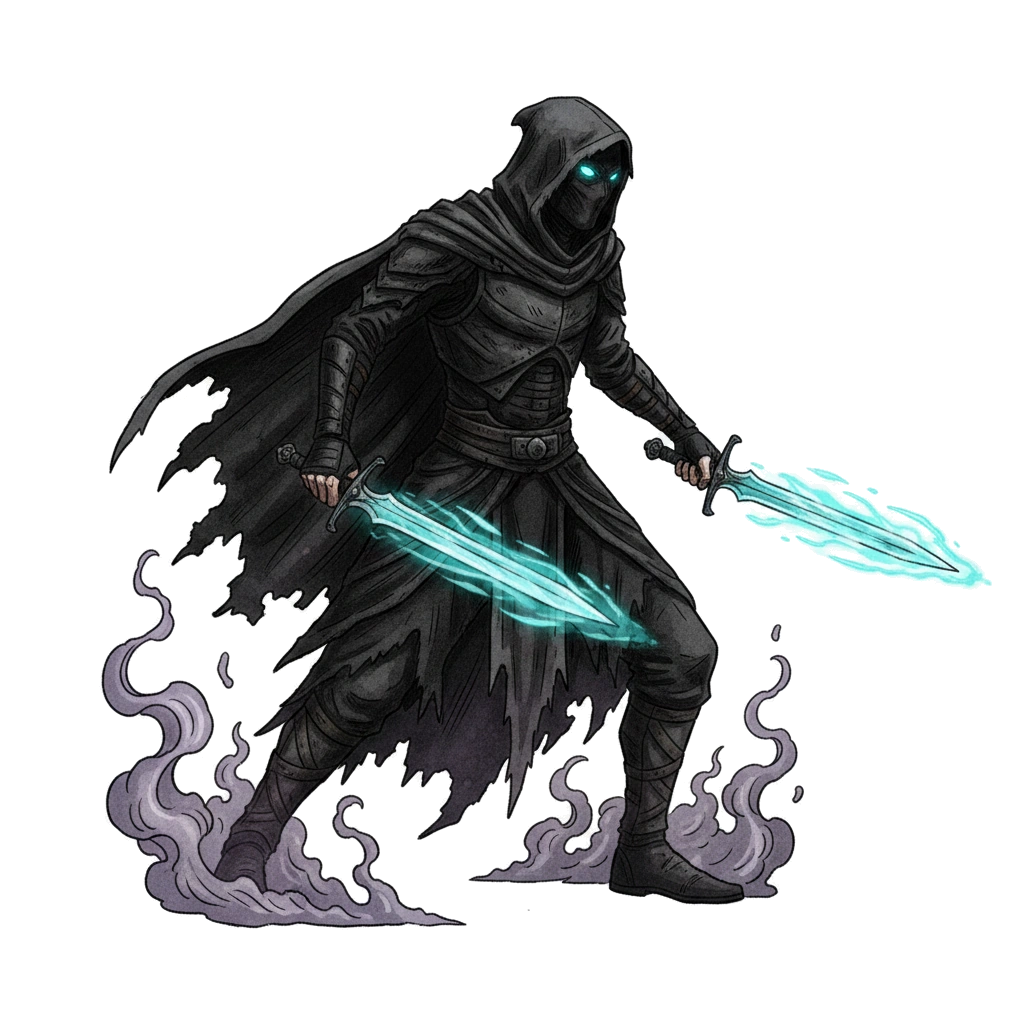
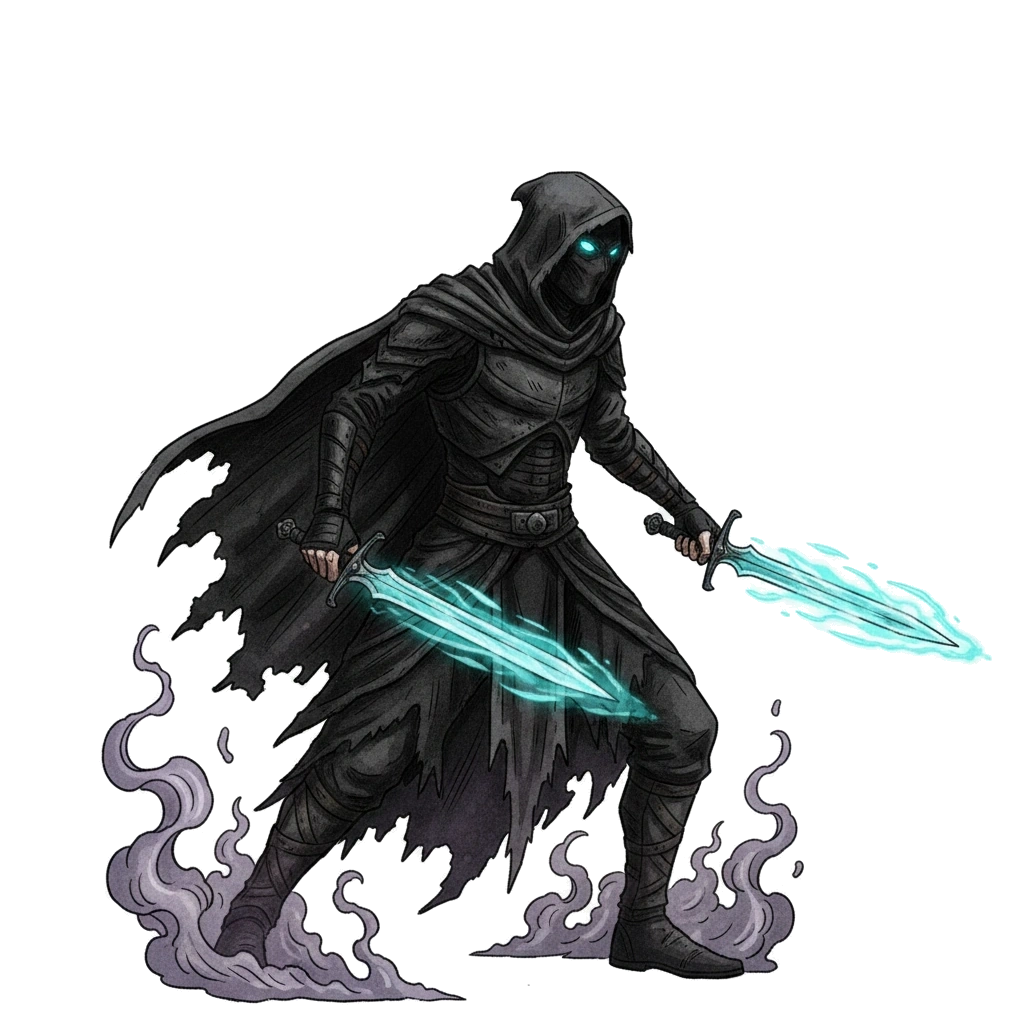
Bestiary assets

diff --git a/apps/web/src/__tests__/entity_synapse_render.test.tsx b/apps/web/src/__tests__/entity_synapse_render.test.tsx
@@ -1,5 +1,6 @@
 import { describe, expect, it } from 'vitest';
 import { renderToStaticMarkup } from 'react-dom/server';
+import { Entity } from '../components/Entity';
 import { EntityRenderShell } from '../components/entity/entity-render-shell';
 
 describe('entity synapse render shell', () => {
@@ -46,5 +47,112 @@ describe('entity synapse render shell', () => {
     expect(html).toContain('entity-synapse-inspectable');
     expect(html).toContain('entity-synapse-pulse');
     expect(html).toContain('data-synapse-pulse="active"');
+  });
+
+  it('scales unit portraits 50 percent larger by default', () => {
+    const html = renderToStaticMarkup(
+      <svg>
+        <Entity
+          entity={{
+            id: 'enemy-2',
+            type: 'enemy',
+            subtype: 'footman',
+            position: { q: 0, r: 0, s: 0 },
+            hp: 4,
+            maxHp: 4,
+            speed: 1,
+            factionId: 'enemy',
+            statusEffects: [],
+            temporaryArmor: 0,
+            activeSkills: []
+          } as any}
+        />
+      </svg>
+    );
+
+    expect(html).toMatch(/translate\(0,-2\) scale\(1\.5\)/);
+  });
+
+  it('applies extra scale compensation for bestiary portraits', () => {
+    const html = renderToStaticMarkup(
+      <svg>
+        <EntityRenderShell
+          entity={{
+            id: 'enemy-3',
+            type: 'enemy',
+            subtype: 'footman',
+            position: { q: 0, r: 0, s: 0 },
+            hp: 4,
+            maxHp: 4,
+            speed: 1,
+            factionId: 'enemy',
+            statusEffects: [],
+            temporaryArmor: 0,
+            activeSkills: []
+          } as any}
+          x={0}
+          y={0}
+          isFlashing={false}
+          isInvisible={false}
+          visualOpacity={1}
+          isPlayer={false}
+          isFlying={false}
+          unitIconYOffset={0}
+          unitIconScale={1}
+          unitIconSize={10}
+          resolvedAssetHref="/assets/Bestiary/unit.goblin.footman.01.webp"
+          handleAssetError={() => { }}
+          contrastBoost={1}
+          stunned={false}
+          blinded={false}
+          showFacing={false}
+          borderColor="#fff"
+        />
+      </svg>
+    );
+
+    expect(html).toContain('width="28"');
+    expect(html).toContain('height="28"');
+    expect(html).toContain('y="-21"');
+  });
+
+  it('lifts player raster portraits upward with the same framing rule', () => {
+    const html = renderToStaticMarkup(
+      <svg>
+        <EntityRenderShell
+          entity={{
+            id: 'player-1',
+            type: 'player',
+            position: { q: 0, r: 0, s: 0 },
+            hp: 10,
+            maxHp: 10,
+            speed: 1,
+            factionId: 'player',
+            statusEffects: [],
+            temporaryArmor: 0,
+            activeSkills: []
+          } as any}
+          x={0}
+          y={0}
+          isFlashing={false}
+          isInvisible={false}
+          visualOpacity={1}
+          isPlayer={true}
+          isFlying={false}
+          unitIconYOffset={0}
+          unitIconScale={1}
+          unitIconSize={10}
+          resolvedAssetHref="/assets/units/unit.player.vanguard.01.webp"
+          handleAssetError={() => { }}
+          contrastBoost={1}
+          stunned={false}
+          blinded={false}
+          showFacing={false}
+          borderColor="#fff"
+        />
+      </svg>
+    );
+
+    expect(html).toContain('y="-14"');
   });
 });

diff --git a/apps/web/src/__tests__/asset_selectors.test.ts b/apps/web/src/__tests__/asset_selectors.test.ts
@@ -1,0 +1,41 @@
+import { describe, expect, it } from 'vitest';
+import type { Actor } from '@hop/engine';
+import { resolveUnitAssetId, resolveUnitFallbackAssetHref } from '../visual/asset-selectors';
+
+const createEnemy = (
+  subtype: string,
+  enemyType: 'melee' | 'ranged' | 'boss' = 'melee'
+): Actor => ({
+  id: `enemy-${subtype}`,
+  type: 'enemy',
+  subtype,
+  enemyType,
+  position: { q: 0, r: 0, s: 0 },
+  hp: 1,
+  maxHp: 1,
+  speed: 1,
+  factionId: 'enemy',
+  statusEffects: [],
+  temporaryArmor: 0,
+  activeSkills: [],
+} as Actor);
+
+describe('asset selectors', () => {
+  it('resolves dedicated unit art ids for the current enemy roster', () => {
+    expect(resolveUnitAssetId(createEnemy('footman'))).toBe('unit.enemy.footman.01');
+    expect(resolveUnitAssetId(createEnemy('sprinter'))).toBe('unit.enemy.sprinter.01');
+    expect(resolveUnitAssetId(createEnemy('raider'))).toBe('unit.enemy.raider.01');
+    expect(resolveUnitAssetId(createEnemy('pouncer'))).toBe('unit.enemy.pouncer.01');
+    expect(resolveUnitAssetId(createEnemy('shieldBearer'))).toBe('unit.enemy.shield_bearer.01');
+    expect(resolveUnitAssetId(createEnemy('shield_bearer'))).toBe('unit.enemy.shield_bearer.01');
+    expect(resolveUnitAssetId(createEnemy('archer', 'ranged'))).toBe('unit.enemy.archer.01');
+    expect(resolveUnitAssetId(createEnemy('bomber', 'ranged'))).toBe('unit.enemy.bomber.01');
+    expect(resolveUnitAssetId(createEnemy('warlock', 'ranged'))).toBe('unit.enemy.warlock.01');
+    expect(resolveUnitAssetId(createEnemy('sentinel', 'boss'))).toBe('unit.enemy.sentinel.01');
+  });
+
+  it('keeps svg fallbacks for new bestiary-backed enemy ids', () => {
+    expect(resolveUnitFallbackAssetHref(createEnemy('sprinter'))).toBe('/assets/units/unit.enemy.footman.01.svg');
+    expect(resolveUnitFallbackAssetHref(createEnemy('sentinel', 'boss'))).toBe('/assets/units/unit.enemy.boss.01.svg');
+  });
+});

diff --git a/apps/web/src/visual/asset-selectors.ts b/apps/web/src/visual/asset-selectors.ts
@@ -50,6 +50,13 @@ export const resolveUnitAssetId = (actor: Actor): string => {
   switch (actor.subtype) {
     case 'footman':
       return 'unit.enemy.footman.01';
+    case 'sprinter':
+      return 'unit.enemy.sprinter.01';
+    case 'raider':
+      return 'unit.enemy.raider.01';
+    case 'pouncer':
+      return 'unit.enemy.pouncer.01';
+    case 'shieldBearer':
     case 'shield_bearer':
       return 'unit.enemy.shield_bearer.01';
     case 'archer':
@@ -58,6 +65,8 @@ export const resolveUnitAssetId = (actor: Actor): string => {
       return 'unit.enemy.warlock.01';
     case 'bomber':
       return 'unit.enemy.bomber.01';
+    case 'sentinel':
+      return 'unit.enemy.sentinel.01';
     case 'bomb':
       return 'unit.enemy.bomb.01';
     default:
@@ -89,10 +98,14 @@ const UNIT_FALLBACK_SVG_BY_ID: Record<string, string> = {
   'unit.player.necromancer.01': '/assets/units/unit.player.vanguard.01.svg',
   'unit.player.assassin.01': '/assets/units/unit.player.skirmisher.01.svg',
   'unit.enemy.footman.01': '/assets/units/unit.enemy.footman.01.svg',
+  'unit.enemy.sprinter.01': '/assets/units/unit.enemy.footman.01.svg',
+  'unit.enemy.raider.01': '/assets/units/unit.enemy.footman.01.svg',
+  'unit.enemy.pouncer.01': '/assets/units/unit.enemy.footman.01.svg',
   'unit.enemy.shield_bearer.01': '/assets/units/unit.enemy.shield_bearer.01.svg',
   'unit.enemy.archer.01': '/assets/units/unit.enemy.archer.01.svg',
   'unit.enemy.warlock.01': '/assets/units/unit.enemy.warlock.01.svg',
   'unit.enemy.bomber.01': '/assets/units/unit.enemy.bomber.01.svg',
+  'unit.enemy.sentinel.01': '/assets/units/unit.enemy.boss.01.svg',
   'unit.enemy.bomb.01': '/assets/units/unit.enemy.bomb.01.svg',
   'unit.enemy.boss.01': '/assets/units/unit.enemy.boss.01.svg'
 };

diff --git a/apps/web/src/components/entity/entity-icon.tsx b/apps/web/src/components/entity/entity-icon.tsx
@@ -8,6 +8,9 @@ const FLOOR_THEME_LUMA: Record<string, number> = {
   frozen: 0.45,
   void: 0.08
 };
+const BESTIARY_UNIT_SCALE_MULTIPLIER = 1.4;
+const PLAYER_RASTER_UNIT_VERTICAL_OFFSET_RATIO = 0.4;
+const ENEMY_RASTER_UNIT_VERTICAL_OFFSET_RATIO = 0.5;
 
 const contrastRatio = (a: number, b: number): number => {
   const light = Math.max(a, b);
@@ -33,7 +36,12 @@ export const renderEntityIcon = (
 ) => {
   const visual = getEntityVisual(entity.subtype, entity.type, entity.enemyType as 'melee' | 'ranged' | 'boss', entity.archetype);
   const { icon, shape, color, borderColor, size: sizeMult = 1.0 } = visual;
-  const finalSize = size * sizeMult;
+  const usesBestiaryPortrait = assetHref?.includes('/assets/Bestiary/') ?? false;
+  const usesRasterPortrait = /\.(?:webp|avif|png|jpe?g)(?:$|[?#])/i.test(assetHref || '');
+  const finalSize = size * sizeMult * (usesBestiaryPortrait ? BESTIARY_UNIT_SCALE_MULTIPLIER : 1);
+  const rasterVerticalOffset = usesRasterPortrait
+    ? finalSize * (isPlayer ? PLAYER_RASTER_UNIT_VERTICAL_OFFSET_RATIO : ENEMY_RASTER_UNIT_VERTICAL_OFFSET_RATIO)
+    : 0;
   const bombFuse = entity.statusEffects?.find(s => s.type === 'time_bomb');
   const bombTimer = bombFuse ? Math.max(0, bombFuse.duration) : (entity.actionCooldown ?? 0);
   const contrastFilter = `contrast(${contrastBoost.toFixed(2)}) brightness(${(contrastBoost > 1 ? 1.12 : 1.04).toFixed(2)})`;
@@ -48,7 +56,7 @@ export const renderEntityIcon = (
         <image
           href={assetHref}
           x={-finalSize}
-          y={-finalSize}
+          y={-finalSize - rasterVerticalOffset}
           width={finalSize * 2}
           height={finalSize * 2}
           preserveAspectRatio="xMidYMid meet"

diff --git a/apps/web/src/__tests__/asset_manifest.test.ts b/apps/web/src/__tests__/asset_manifest.test.ts
@@ -1,0 +1,44 @@
+import { afterEach, describe, expect, it, vi } from 'vitest';
+import { clearAssetManifestCache, loadAssetManifest } from '../visual/asset-manifest';
+
+afterEach(() => {
+  clearAssetManifestCache();
+  vi.restoreAllMocks();
+});
+
+describe('asset manifest loader', () => {
+  it('accepts uppercase asset path segments without falling back to an empty manifest', async () => {
+    const fetchMock = vi.fn().mockResolvedValue({
+      ok: true,
+      json: () => Promise.resolve({
+        version: '1.0.0',
+        gridTopology: 'flat-top-hex',
+        tileUnitPx: 256,
+        tileAspectRatio: 1.154700538,
+        layers: ['ground', 'decal', 'prop', 'unit', 'fx', 'ui'],
+        assets: [{
+          id: 'unit.enemy.footman.01',
+          type: 'unit',
+          layer: 'unit',
+          recommendedFormat: 'webp',
+          path: '/assets/Bestiary/unit.goblin.footman.01.webp',
+          width: 512,
+          height: 512,
+        }],
+      }),
+    });
+    const warnSpy = vi.spyOn(console, 'warn').mockImplementation(() => {});
+
+    Object.defineProperty(globalThis, 'fetch', {
+      configurable: true,
+      value: fetchMock,
+    });
+
+    const manifest = await loadAssetManifest();
+
+    expect(fetchMock).toHaveBeenCalledWith('/assets/manifest.json');
+    expect(manifest.assets).toHaveLength(1);
+    expect(manifest.assets[0]?.path).toBe('/assets/Bestiary/unit.goblin.footman.01.webp');
+    expect(warnSpy).not.toHaveBeenCalled();
+  });
+});

diff --git a/apps/web/src/components/Entity.tsx b/apps/web/src/components/Entity.tsx
@@ -10,6 +10,7 @@ import { SYNAPSE_PULSE_DURATION_MS } from '../app/synapse';
 import type { RegisteredActorNodes } from './game-board/actor-node-registry';
 
 const subscribeNoop = () => () => undefined;
+const DEFAULT_UNIT_VISUAL_SCALE_MULTIPLIER = 1.5;
 
 export type { EntityVisualPose } from './entity/entity-types';
 
@@ -65,7 +66,7 @@ const EntityBase: React.FC<EntityProps> = ({
 
     const visual = getEntityVisual(entity.subtype, entity.type, entity.enemyType as 'melee' | 'ranged' | 'boss', entity.archetype);
     const isFlying = isEntityFlying(entity);
-    const unitIconScale = isPlayer ? 1.34 : 0.92;
+    const unitIconScale = (isPlayer ? 1.10 : 1) * DEFAULT_UNIT_VISUAL_SCALE_MULTIPLIER;
     const unitIconYOffset = isPlayer ? -9 : -2;
     const unitIconSize = isPlayer ? 24 : 18;
     const contrastBoost = computeEntityContrastBoost(floorTheme);

diff --git a/apps/web/src/visual/asset-manifest.ts b/apps/web/src/visual/asset-manifest.ts
@@ -147,7 +147,7 @@ export interface VisualAssetManifest {
 
 const BASE_URL = import.meta.env.BASE_URL || '/';
 const ASSET_ID_RE = /^[a-z0-9]+(?:[._-][a-z0-9]+)*$/;
-const ASSET_PATH_RE = /^\/assets\/[a-z0-9/_\-.]+$/;
+const ASSET_PATH_RE = /^\/assets\/[a-z0-9/_\-.]+$/i;
 const REQUIRED_LAYERS: VisualAssetLayer[] = ['ground', 'decal', 'prop', 'unit', 'fx', 'ui'];
 const SUPPORTED_FORMATS: VisualAssetFormat[] = ['svg', 'webp', 'avif', 'png', 'jpg', 'jpeg'];
 const UNIT_FORMATS: VisualAssetFormat[] = ['svg', 'webp', 'avif', 'png'];
